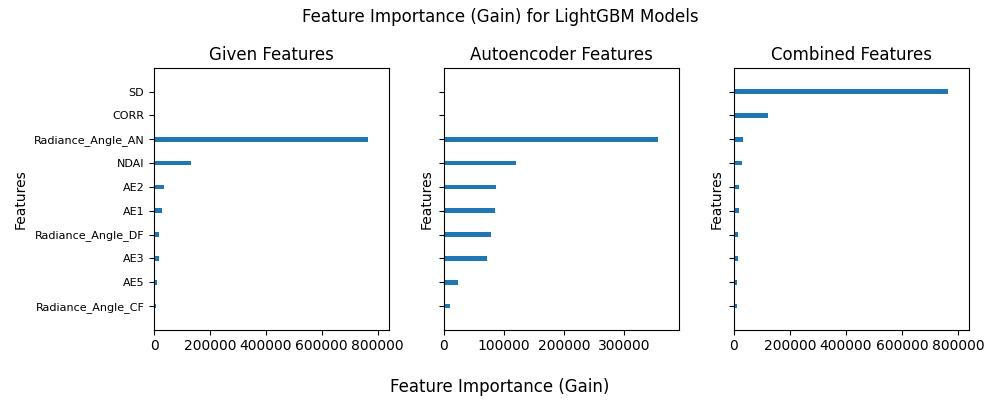
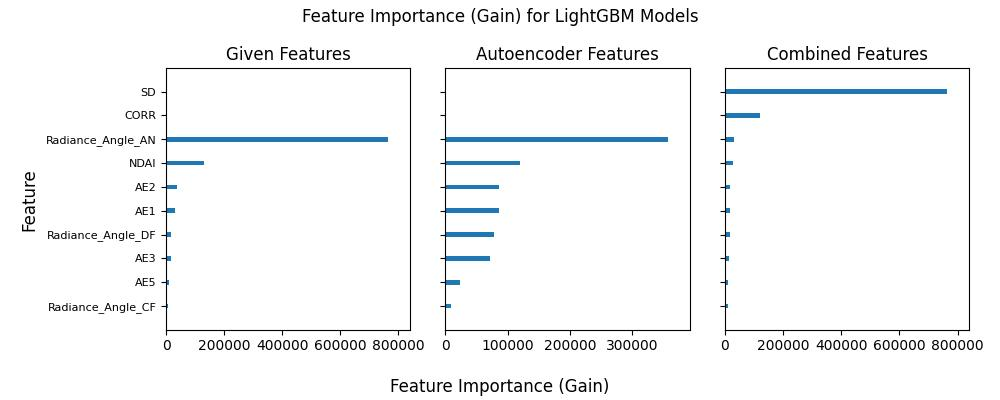
fixed lightgbm figs (again)

diff --git a/lab2/code/lightgbm_mod.py b/lab2/code/lightgbm_mod.py
@@ -166,6 +166,7 @@ def lightgbm_main(random_state):
             ax=axs_imp[df_idx],
             title=subplot_titles[df_idx],
             xlabel=None,
+            ylabel=None,
             max_num_features=10,
             grid=False
         )
@@ -186,6 +187,7 @@ def lightgbm_main(random_state):
     # Set overall title and axis labels for feature importance plots.
     fig_imp.suptitle("Feature Importance (Gain) for LightGBM Models")
     fig_imp.supxlabel("Feature Importance (Gain)")
+    fig_imp.supylabel("Feature")
 
     # Use tight layout to avoid overlapping and show the plots.
     plt.tight_layout()
